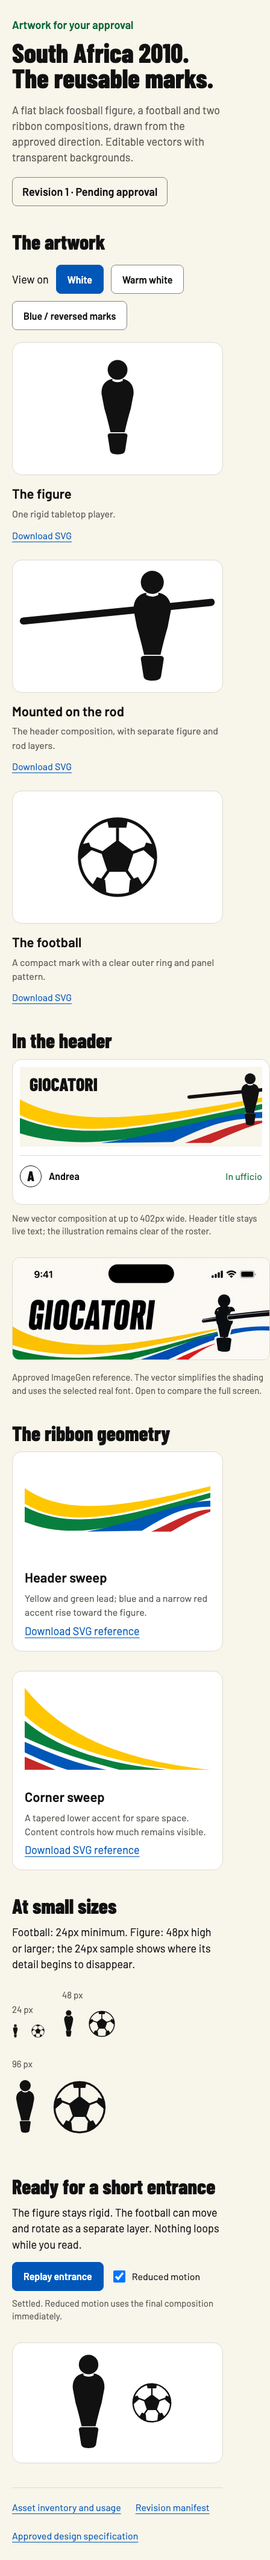
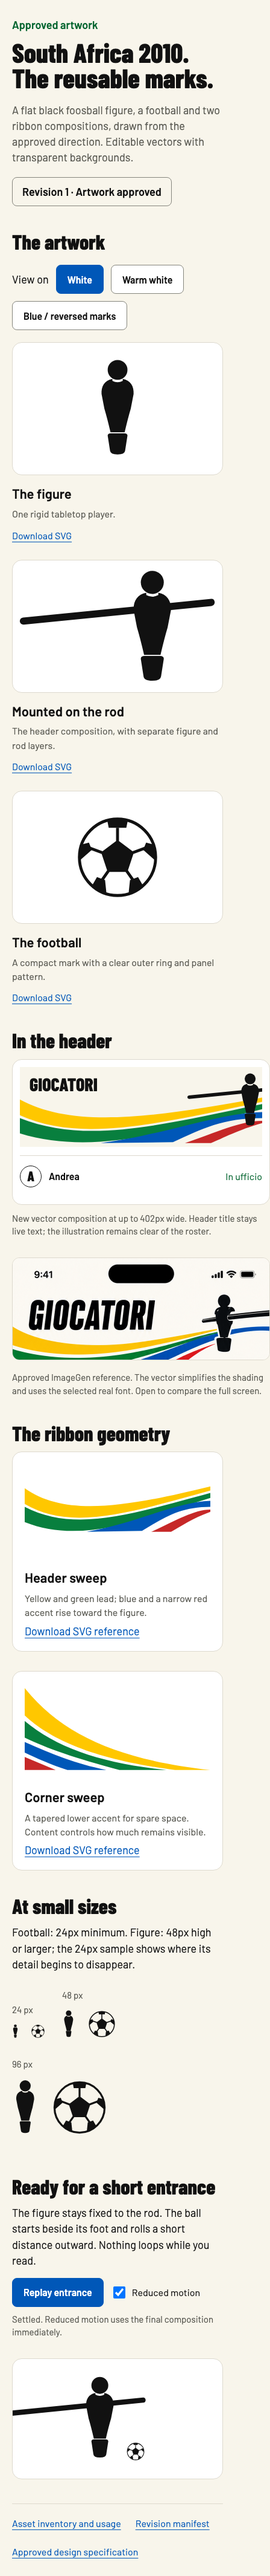
docs: record artwork approval and refine entrance preview

diff --git a/design/south-africa-2010/assets/r1/review.html b/design/south-africa-2010/assets/r1/review.html
@@ -1,9 +1,9 @@
 <!doctype html><html lang="en"><meta charset="utf-8"><meta name="viewport" content="width=device-width,initial-scale=1"><title>South Africa 2010 — asset review R1</title><style>
 @font-face{font-family:Barlow;src:url('../../../experiments/south-africa-2010/type/Barlow-Regular.ttf');font-weight:400}@font-face{font-family:Barlow;src:url('../../../experiments/south-africa-2010/type/Barlow-SemiBold.ttf');font-weight:600}@font-face{font-family:Display;src:url('../../../experiments/south-africa-2010/type/BarlowCondensed-ExtraBold.ttf');font-weight:800}
-*{box-sizing:border-box}body{margin:0;background:#f8f5eb;color:#111;font:18px/1.45 Barlow,sans-serif}main{max-width:1180px;margin:auto;padding:44px 32px 64px}h1,h2,h3,p{margin:0}h1{font:800 clamp(44px,6vw,74px)/.96 Display,sans-serif;max-width:800px}h2{font:800 34px/1.1 Display,sans-serif;margin-bottom:12px}h3{font-size:22px}p{max-width:700px}a{color:#0057b8;text-underline-offset:4px}a:focus-visible,button:focus-visible,input:focus-visible{outline:3px solid #0057b8;outline-offset:4px}.intro{display:flex;gap:30px;align-items:end;justify-content:space-between}.status{margin-bottom:12px;color:#066631;font-weight:600}.lead{margin-top:18px;max-width:700px;color:#5c5c55}.revision{white-space:nowrap;font-weight:600;border:1px solid #85857c;padding:10px 16px;border-radius:8px}section{margin-top:40px}.toolbar{display:flex;gap:12px;align-items:center;flex-wrap:wrap;margin:20px 0}button{min-height:48px;padding:10px 18px;border:1px solid #85857c;border-radius:8px;background:#fff;color:#111;font:600 16px Barlow;cursor:pointer}button[aria-pressed=true],button.primary{background:#0057b8;color:white;border-color:#0057b8}.marks{display:grid;grid-template-columns:1fr 1.35fr 1fr;gap:28px}.mark h3{margin-top:15px}.mark p{font-size:16px;color:#5c5c55;margin:5px 0 10px;min-height:47px}.mark a{font-size:16px}.art{height:230px;background:var(--stage,#fff);border:1px solid #ddd9ce;display:flex;align-items:center;justify-content:center;border-radius:16px}.art svg{height:172px;max-width:94%;width:auto}.art-rod svg{width:100%;height:auto}.art-ball svg{height:146px}.blue .art svg [fill="#111111"]{fill:#fff}.blue .art svg [stroke="#111111"]{stroke:#fff}.comparison{display:grid;grid-template-columns:1fr 1fr;gap:32px;align-items:start}.composition{border:1px solid #ddd9ce;border-radius:16px;background:#fff;padding:24px;overflow:hidden}.phone-header{position:relative;width:402px;max-width:100%;height:132px;overflow:hidden;background:#f8f5eb;margin:auto}.phone-header h3{position:absolute;left:16px;top:12px;font:800 32px/1.1 Display;z-index:2}.sweep{position:absolute;bottom:0;width:100%;height:86px}.sweep svg{width:100%;height:100%;preserve-aspect-ratio:none}.assembly{position:absolute;right:-15px;top:0;width:155px;height:108px}.assembly svg{width:100%;height:100%}.roster-cue{max-width:402px;margin:14px auto 0;padding:16px 0;border-top:1px solid #ddd9ce;display:flex;align-items:center;gap:12px;font-size:16px}.initial{width:36px;height:36px;border:1px solid #111;border-radius:50%;display:grid;place-items:center;font-family:Display;font-size:23px}.presence{margin-left:auto;color:#066631}.caption{font-size:15px;color:#5c5c55;margin-top:12px}.reference{width:100%;height:204px;object-fit:cover;object-position:top;border-radius:12px;border:1px solid #ddd9ce}.ribbons{display:grid;grid-template-columns:1.3fr 1fr;gap:32px}.ribbon-study{background:#fff;border:1px solid #ddd9ce;border-radius:16px;padding:20px}.ribbon-study svg{width:100%;height:150px}.ribbon-study h3{margin-top:16px}.ribbon-study p{font-size:16px;color:#5c5c55;margin:6px 0}.small-row{display:flex;align-items:end;gap:48px;flex-wrap:wrap;padding:24px 0}.size>span{font-size:15px;color:#5c5c55}.size>div{display:flex;gap:20px;margin-top:12px}.size svg{height:100%;width:auto}.motion{display:grid;grid-template-columns:1fr 1fr;gap:32px;align-items:center}.motion-stage{height:200px;background:#fff;border:1px solid #ddd9ce;border-radius:16px;display:flex;align-items:center;justify-content:center;gap:24px;overflow:hidden}.motion-stage .motion-ball{width:72px;height:72px}.motion-stage .motion-player{width:90px;height:170px}.motion-stage svg{width:100%;height:100%}.motion .controls{display:flex;gap:12px;align-items:center;flex-wrap:wrap;margin-top:16px}label{display:flex;align-items:center;gap:8px;font-size:16px;min-height:48px}input{width:20px;height:20px}footer{margin-top:40px;padding-top:20px;border-top:1px solid #ddd9ce;display:flex;gap:24px;flex-wrap:wrap;font-size:16px}.motion-note{font-size:15px;color:#5c5c55;margin-top:10px}
+*{box-sizing:border-box}body{margin:0;background:#f8f5eb;color:#111;font:18px/1.45 Barlow,sans-serif}main{max-width:1180px;margin:auto;padding:44px 32px 64px}h1,h2,h3,p{margin:0}h1{font:800 clamp(44px,6vw,74px)/.96 Display,sans-serif;max-width:800px}h2{font:800 34px/1.1 Display,sans-serif;margin-bottom:12px}h3{font-size:22px}p{max-width:700px}a{color:#0057b8;text-underline-offset:4px}a:focus-visible,button:focus-visible,input:focus-visible{outline:3px solid #0057b8;outline-offset:4px}.intro{display:flex;gap:30px;align-items:end;justify-content:space-between}.status{margin-bottom:12px;color:#066631;font-weight:600}.lead{margin-top:18px;max-width:700px;color:#5c5c55}.revision{white-space:nowrap;font-weight:600;border:1px solid #85857c;padding:10px 16px;border-radius:8px}section{margin-top:40px}.toolbar{display:flex;gap:12px;align-items:center;flex-wrap:wrap;margin:20px 0}button{min-height:48px;padding:10px 18px;border:1px solid #85857c;border-radius:8px;background:#fff;color:#111;font:600 16px Barlow;cursor:pointer}button[aria-pressed=true],button.primary{background:#0057b8;color:white;border-color:#0057b8}.marks{display:grid;grid-template-columns:1fr 1.35fr 1fr;gap:28px}.mark h3{margin-top:15px}.mark p{font-size:16px;color:#5c5c55;margin:5px 0 10px;min-height:47px}.mark a{font-size:16px}.art{height:230px;background:var(--stage,#fff);border:1px solid #ddd9ce;display:flex;align-items:center;justify-content:center;border-radius:16px}.art svg{height:172px;max-width:94%;width:auto}.art-rod svg{width:100%;height:auto}.art-ball svg{height:146px}.blue .art svg [fill="#111111"]{fill:#fff}.blue .art svg [stroke="#111111"]{stroke:#fff}.comparison{display:grid;grid-template-columns:1fr 1fr;gap:32px;align-items:start}.composition{border:1px solid #ddd9ce;border-radius:16px;background:#fff;padding:24px;overflow:hidden}.phone-header{position:relative;width:402px;max-width:100%;height:132px;overflow:hidden;background:#f8f5eb;margin:auto}.phone-header h3{position:absolute;left:16px;top:12px;font:800 32px/1.1 Display;z-index:2}.sweep{position:absolute;bottom:0;width:100%;height:86px}.sweep svg{width:100%;height:100%;}.assembly{position:absolute;right:-15px;top:0;width:155px;height:108px}.assembly svg{width:100%;height:100%}.roster-cue{max-width:402px;margin:14px auto 0;padding:16px 0;border-top:1px solid #ddd9ce;display:flex;align-items:center;gap:12px;font-size:16px}.initial{width:36px;height:36px;border:1px solid #111;border-radius:50%;display:grid;place-items:center;font-family:Display;font-size:23px}.presence{margin-left:auto;color:#066631}.caption{font-size:15px;color:#5c5c55;margin-top:12px}.reference{width:100%;height:204px;object-fit:cover;object-position:top;border-radius:12px;border:1px solid #ddd9ce}.ribbons{display:grid;grid-template-columns:1.3fr 1fr;gap:32px}.ribbon-study{background:#fff;border:1px solid #ddd9ce;border-radius:16px;padding:20px}.ribbon-study svg{width:100%;height:150px}.ribbon-study h3{margin-top:16px}.ribbon-study p{font-size:16px;color:#5c5c55;margin:6px 0}.small-row{display:flex;align-items:end;gap:48px;flex-wrap:wrap;padding:24px 0}.size>span{font-size:15px;color:#5c5c55}.size>div{display:flex;gap:20px;margin-top:12px}.size svg{height:100%;width:auto}.motion{display:grid;grid-template-columns:1fr 1fr;gap:32px;align-items:center}.motion-stage{height:200px;background:#fff;border:1px solid #ddd9ce;border-radius:16px;display:flex;align-items:center;justify-content:center;gap:24px;overflow:hidden}.motion-scene{position:relative;width:240px;height:180px;flex:none}.motion-stage .motion-ball{position:absolute;left:134px;top:128px;width:32px;height:32px}.motion-stage .motion-player{position:absolute;left:-72px;top:8px;width:240px;height:160px}.motion-stage svg{width:100%;height:100%}.motion .controls{display:flex;gap:12px;align-items:center;flex-wrap:wrap;margin-top:16px}label{display:flex;align-items:center;gap:8px;font-size:16px;min-height:48px}input{width:20px;height:20px}footer{margin-top:40px;padding-top:20px;border-top:1px solid #ddd9ce;display:flex;gap:24px;flex-wrap:wrap;font-size:16px}.motion-note{font-size:15px;color:#5c5c55;margin-top:10px}
 @media(max-width:720px){main{padding:28px 20px}.intro{display:block}.revision{display:inline-block;margin-top:20px}.marks,.comparison,.ribbons,.motion{grid-template-columns:1fr}.art{height:220px}.mark p{min-height:0}.composition{padding:12px}.reference{height:170px}.small-row{gap:28px}.phone-header h3{font-size:30px}.assembly{right:-30px}.motion-stage{order:2}}
 @media(prefers-reduced-motion:reduce){*{scroll-behavior:auto!important}}
-</style><main><div class="intro"><div><p class="status">Artwork for your approval</p><h1>South Africa 2010.<br>The reusable marks.</h1><p class="lead">A flat black foosball figure, a football and two ribbon compositions, drawn from the approved direction. Editable vectors with transparent backgrounds.</p></div><p class="revision">Revision 1 · Pending approval</p></div>
+</style><main><div class="intro"><div><p class="status">Approved artwork</p><h1>South Africa 2010.<br>The reusable marks.</h1><p class="lead">A flat black foosball figure, a football and two ribbon compositions, drawn from the approved direction. Editable vectors with transparent backgrounds.</p></div><p class="revision">Revision 1 · Artwork approved</p></div>
 <section aria-labelledby="marks-title"><h2 id="marks-title">The artwork</h2><div class="toolbar" aria-label="Artwork background"><span>View on</span><button data-bg="white" aria-pressed="true">White</button><button data-bg="ivory" aria-pressed="false">Warm white</button><button data-bg="blue" aria-pressed="false">Blue / reversed marks</button></div><div class="marks"><article class="mark"><div class="art art-figure"><svg xmlns="http://www.w3.org/2000/svg" viewBox="0 0 100 220">
 <title>Reusable rigid figure</title>
 <g id="preview-1-figure" fill="#111111">
@@ -111,13 +111,14 @@
 </g>
 </svg>
 </div></div></div></section>
-<section class="motion"><div><h2>Ready for a short entrance</h2><p>The figure stays rigid. The football can move and rotate as a separate layer. Nothing loops while you read.</p><div class="controls"><button class="primary" id="replay">Replay entrance</button><label><input type="checkbox" id="reduced">Reduced motion</label></div><p class="motion-note" id="motion-status" role="status">Idle. Browser movement study; Flutter motion validation is still pending.</p></div><div class="motion-stage"><div class="motion-player"><svg xmlns="http://www.w3.org/2000/svg" viewBox="0 0 100 220">
-<title>Reusable rigid figure</title>
-<g id="preview-14-figure" fill="#111111">
+<section class="motion"><div><h2>Ready for a short entrance</h2><p>The figure stays fixed to the rod. The ball starts beside its foot and rolls a short distance outward. Nothing loops while you read.</p><div class="controls"><button class="primary" id="replay">Replay entrance</button><label><input type="checkbox" id="reduced">Reduced motion</label></div><p class="motion-note" id="motion-status" role="status">Idle. Browser movement study; Flutter motion validation is still pending.</p></div><div class="motion-stage"><div class="motion-scene"><div class="motion-player"><svg xmlns="http://www.w3.org/2000/svg" viewBox="0 0 360 240">
+<title>Foosball figure and rod</title>
+<g id="preview-14-rod" fill="#111111"><path d="M8 104 L352 70 Q357 70 358 76 Q358 82 352 83 L9 117 Q3 117 2 111 Q2 105 8 104 Z"/></g>
+<g id="preview-14-player" transform="translate(194 12)"><g id="preview-14-figure" fill="#111111">
   <circle id="preview-14-head" cx="50" cy="28" r="21"/>
   <path id="preview-14-body" d="M39 47 C22 50 15 63 16 79 L22 110 Q28 130 35 160 L65 160 Q72 130 78 110 L84 79 C85 63 78 50 61 47 L61 51 Q50 57 39 51 Z"/>
   <path id="preview-14-foot" d="M29 167 Q29 162 36 162 H64 Q71 162 71 167 L66 199 Q65 207 50 207 Q35 207 34 199 Z"/>
-</g>
+</g></g>
 </svg>
 </div><div class="motion-ball"><svg xmlns="http://www.w3.org/2000/svg" viewBox="0 0 120 120">
 <title>Football mark</title>
@@ -127,11 +128,11 @@
   <g id="preview-15-panels" fill="#111111" stroke="none"><path d="M60 39 L80 54 L72 78 H48 L40 54 Z M46 10 Q60 6 74 10 L72 20 H48 Z M10 43 L21 40 L25 50 L9 64 Z M110 43 L99 40 L95 50 L111 64 Z M25 99 L32 87 L43 91 L45 110 Z M95 99 L88 87 L77 91 L75 110 Z"/></g>
 </g>
 </svg>
-</div></div></section>
+</div></div></div></section>
 <footer><a href="../README.md">Asset inventory and usage</a><a href="manifest.json">Revision manifest</a><a href="../../../../DESIGN.md">Approved design specification</a></footer></main>
 <script>
 const root=document.documentElement;document.querySelectorAll('[data-bg]').forEach(b=>b.addEventListener('click',()=>{document.querySelectorAll('[data-bg]').forEach(x=>x.setAttribute('aria-pressed',String(x===b)));root.style.setProperty('--stage',{white:'#fff',ivory:'#f8f5eb',blue:'#0057b8'}[b.dataset.bg]);document.body.classList.toggle('blue',b.dataset.bg==='blue');}));
 const media=matchMedia('(prefers-reduced-motion: reduce)'),reduced=document.querySelector('#reduced'),status=document.querySelector('#motion-status');let running=[];reduced.checked=media.matches;
 const settle=()=>{running.forEach(a=>a.cancel());running=[];status.textContent='Settled. Reduced motion uses the final composition immediately.';};reduced.addEventListener('change',()=>{if(reduced.checked)settle()});media.addEventListener('change',e=>{reduced.checked=e.matches;if(e.matches)settle()});
-document.querySelector('#replay').addEventListener('click',()=>{running.forEach(a=>a.cancel());running=[];if(reduced.checked||media.matches){settle();return}status.textContent='Playing a 1-second entrance study.';running=[document.querySelector('.motion-ball').animate([{transform:'translateX(-24px) rotate(-20deg)',opacity:0},{transform:'translateX(0) rotate(0)',opacity:1}],{duration:1000,easing:'cubic-bezier(.22,1,.36,1)'}),document.querySelector('.motion-player').animate([{opacity:0},{opacity:1}],{duration:500,easing:'ease-out'})];Promise.all(running.map(a=>a.finished)).then(()=>{status.textContent='Entrance complete. No idle loop.'}).catch(()=>{});});
+document.querySelector('#replay').addEventListener('click',()=>{running.forEach(a=>a.cancel());running=[];if(reduced.checked||media.matches){settle();return}status.textContent='Playing a 1-second entrance study.';running=[document.querySelector('.motion-ball').animate([{transform:'translateX(-24px) rotate(-90deg)',offset:0},{transform:'translateX(-24px) rotate(-90deg)',offset:.15},{transform:'translateX(0) rotate(0)',offset:1}],{duration:1000,easing:'cubic-bezier(.22,1,.36,1)'})];Promise.all(running.map(a=>a.finished)).then(()=>{status.textContent='Entrance complete. No idle loop.'}).catch(()=>{});});
 </script></html>

diff --git a/design/south-africa-2010/assets/tools/build_review.py b/design/south-africa-2010/assets/tools/build_review.py
@@ -8,7 +8,7 @@ cards=''.join(f'<article class="mark"><div class="art art-{cl}">{svg(stem)}</div
 sizes=''.join('<div class="size"><span>'+str(size)+' px</span><div style="height:'+str(size)+'px">'+svg('foosball-figure')+svg('football')+'</div></div>' for size in [24,48,96])
 page='''<!doctype html><html lang="en"><meta charset="utf-8"><meta name="viewport" content="width=device-width,initial-scale=1"><title>South Africa 2010 — asset review R1</title><style>
 @font-face{font-family:Barlow;src:url('../../../experiments/south-africa-2010/type/Barlow-Regular.ttf');font-weight:400}@font-face{font-family:Barlow;src:url('../../../experiments/south-africa-2010/type/Barlow-SemiBold.ttf');font-weight:600}@font-face{font-family:Display;src:url('../../../experiments/south-africa-2010/type/BarlowCondensed-ExtraBold.ttf');font-weight:800}
-*{box-sizing:border-box}body{margin:0;background:#f8f5eb;color:#111;font:18px/1.45 Barlow,sans-serif}main{max-width:1180px;margin:auto;padding:44px 32px 64px}h1,h2,h3,p{margin:0}h1{font:800 clamp(44px,6vw,74px)/.96 Display,sans-serif;max-width:800px}h2{font:800 34px/1.1 Display,sans-serif;margin-bottom:12px}h3{font-size:22px}p{max-width:700px}a{color:#0057b8;text-underline-offset:4px}a:focus-visible,button:focus-visible,input:focus-visible{outline:3px solid #0057b8;outline-offset:4px}.intro{display:flex;gap:30px;align-items:end;justify-content:space-between}.status{margin-bottom:12px;color:#066631;font-weight:600}.lead{margin-top:18px;max-width:700px;color:#5c5c55}.revision{white-space:nowrap;font-weight:600;border:1px solid #85857c;padding:10px 16px;border-radius:8px}section{margin-top:40px}.toolbar{display:flex;gap:12px;align-items:center;flex-wrap:wrap;margin:20px 0}button{min-height:48px;padding:10px 18px;border:1px solid #85857c;border-radius:8px;background:#fff;color:#111;font:600 16px Barlow;cursor:pointer}button[aria-pressed=true],button.primary{background:#0057b8;color:white;border-color:#0057b8}.marks{display:grid;grid-template-columns:1fr 1.35fr 1fr;gap:28px}.mark h3{margin-top:15px}.mark p{font-size:16px;color:#5c5c55;margin:5px 0 10px;min-height:47px}.mark a{font-size:16px}.art{height:230px;background:var(--stage,#fff);border:1px solid #ddd9ce;display:flex;align-items:center;justify-content:center;border-radius:16px}.art svg{height:172px;max-width:94%;width:auto}.art-rod svg{width:100%;height:auto}.art-ball svg{height:146px}.blue .art svg [fill="#111111"]{fill:#fff}.blue .art svg [stroke="#111111"]{stroke:#fff}.comparison{display:grid;grid-template-columns:1fr 1fr;gap:32px;align-items:start}.composition{border:1px solid #ddd9ce;border-radius:16px;background:#fff;padding:24px;overflow:hidden}.phone-header{position:relative;width:402px;max-width:100%;height:132px;overflow:hidden;background:#f8f5eb;margin:auto}.phone-header h3{position:absolute;left:16px;top:12px;font:800 32px/1.1 Display;z-index:2}.sweep{position:absolute;bottom:0;width:100%;height:86px}.sweep svg{width:100%;height:100%;preserve-aspect-ratio:none}.assembly{position:absolute;right:-15px;top:0;width:155px;height:108px}.assembly svg{width:100%;height:100%}.roster-cue{max-width:402px;margin:14px auto 0;padding:16px 0;border-top:1px solid #ddd9ce;display:flex;align-items:center;gap:12px;font-size:16px}.initial{width:36px;height:36px;border:1px solid #111;border-radius:50%;display:grid;place-items:center;font-family:Display;font-size:23px}.presence{margin-left:auto;color:#066631}.caption{font-size:15px;color:#5c5c55;margin-top:12px}.reference{width:100%;height:204px;object-fit:cover;object-position:top;border-radius:12px;border:1px solid #ddd9ce}.ribbons{display:grid;grid-template-columns:1.3fr 1fr;gap:32px}.ribbon-study{background:#fff;border:1px solid #ddd9ce;border-radius:16px;padding:20px}.ribbon-study svg{width:100%;height:150px}.ribbon-study h3{margin-top:16px}.ribbon-study p{font-size:16px;color:#5c5c55;margin:6px 0}.small-row{display:flex;align-items:end;gap:48px;flex-wrap:wrap;padding:24px 0}.size>span{font-size:15px;color:#5c5c55}.size>div{display:flex;gap:20px;margin-top:12px}.size svg{height:100%;width:auto}.motion{display:grid;grid-template-columns:1fr 1fr;gap:32px;align-items:center}.motion-stage{height:200px;background:#fff;border:1px solid #ddd9ce;border-radius:16px;display:flex;align-items:center;justify-content:center;gap:24px;overflow:hidden}.motion-stage .motion-ball{width:72px;height:72px}.motion-stage .motion-player{width:90px;height:170px}.motion-stage svg{width:100%;height:100%}.motion .controls{display:flex;gap:12px;align-items:center;flex-wrap:wrap;margin-top:16px}label{display:flex;align-items:center;gap:8px;font-size:16px;min-height:48px}input{width:20px;height:20px}footer{margin-top:40px;padding-top:20px;border-top:1px solid #ddd9ce;display:flex;gap:24px;flex-wrap:wrap;font-size:16px}.motion-note{font-size:15px;color:#5c5c55;margin-top:10px}
+*{box-sizing:border-box}body{margin:0;background:#f8f5eb;color:#111;font:18px/1.45 Barlow,sans-serif}main{max-width:1180px;margin:auto;padding:44px 32px 64px}h1,h2,h3,p{margin:0}h1{font:800 clamp(44px,6vw,74px)/.96 Display,sans-serif;max-width:800px}h2{font:800 34px/1.1 Display,sans-serif;margin-bottom:12px}h3{font-size:22px}p{max-width:700px}a{color:#0057b8;text-underline-offset:4px}a:focus-visible,button:focus-visible,input:focus-visible{outline:3px solid #0057b8;outline-offset:4px}.intro{display:flex;gap:30px;align-items:end;justify-content:space-between}.status{margin-bottom:12px;color:#066631;font-weight:600}.lead{margin-top:18px;max-width:700px;color:#5c5c55}.revision{white-space:nowrap;font-weight:600;border:1px solid #85857c;padding:10px 16px;border-radius:8px}section{margin-top:40px}.toolbar{display:flex;gap:12px;align-items:center;flex-wrap:wrap;margin:20px 0}button{min-height:48px;padding:10px 18px;border:1px solid #85857c;border-radius:8px;background:#fff;color:#111;font:600 16px Barlow;cursor:pointer}button[aria-pressed=true],button.primary{background:#0057b8;color:white;border-color:#0057b8}.marks{display:grid;grid-template-columns:1fr 1.35fr 1fr;gap:28px}.mark h3{margin-top:15px}.mark p{font-size:16px;color:#5c5c55;margin:5px 0 10px;min-height:47px}.mark a{font-size:16px}.art{height:230px;background:var(--stage,#fff);border:1px solid #ddd9ce;display:flex;align-items:center;justify-content:center;border-radius:16px}.art svg{height:172px;max-width:94%;width:auto}.art-rod svg{width:100%;height:auto}.art-ball svg{height:146px}.blue .art svg [fill="#111111"]{fill:#fff}.blue .art svg [stroke="#111111"]{stroke:#fff}.comparison{display:grid;grid-template-columns:1fr 1fr;gap:32px;align-items:start}.composition{border:1px solid #ddd9ce;border-radius:16px;background:#fff;padding:24px;overflow:hidden}.phone-header{position:relative;width:402px;max-width:100%;height:132px;overflow:hidden;background:#f8f5eb;margin:auto}.phone-header h3{position:absolute;left:16px;top:12px;font:800 32px/1.1 Display;z-index:2}.sweep{position:absolute;bottom:0;width:100%;height:86px}.sweep svg{width:100%;height:100%;}.assembly{position:absolute;right:-15px;top:0;width:155px;height:108px}.assembly svg{width:100%;height:100%}.roster-cue{max-width:402px;margin:14px auto 0;padding:16px 0;border-top:1px solid #ddd9ce;display:flex;align-items:center;gap:12px;font-size:16px}.initial{width:36px;height:36px;border:1px solid #111;border-radius:50%;display:grid;place-items:center;font-family:Display;font-size:23px}.presence{margin-left:auto;color:#066631}.caption{font-size:15px;color:#5c5c55;margin-top:12px}.reference{width:100%;height:204px;object-fit:cover;object-position:top;border-radius:12px;border:1px solid #ddd9ce}.ribbons{display:grid;grid-template-columns:1.3fr 1fr;gap:32px}.ribbon-study{background:#fff;border:1px solid #ddd9ce;border-radius:16px;padding:20px}.ribbon-study svg{width:100%;height:150px}.ribbon-study h3{margin-top:16px}.ribbon-study p{font-size:16px;color:#5c5c55;margin:6px 0}.small-row{display:flex;align-items:end;gap:48px;flex-wrap:wrap;padding:24px 0}.size>span{font-size:15px;color:#5c5c55}.size>div{display:flex;gap:20px;margin-top:12px}.size svg{height:100%;width:auto}.motion{display:grid;grid-template-columns:1fr 1fr;gap:32px;align-items:center}.motion-stage{height:200px;background:#fff;border:1px solid #ddd9ce;border-radius:16px;display:flex;align-items:center;justify-content:center;gap:24px;overflow:hidden}.motion-scene{position:relative;width:240px;height:180px;flex:none}.motion-stage .motion-ball{position:absolute;left:134px;top:128px;width:32px;height:32px}.motion-stage .motion-player{position:absolute;left:-72px;top:8px;width:240px;height:160px}.motion-stage svg{width:100%;height:100%}.motion .controls{display:flex;gap:12px;align-items:center;flex-wrap:wrap;margin-top:16px}label{display:flex;align-items:center;gap:8px;font-size:16px;min-height:48px}input{width:20px;height:20px}footer{margin-top:40px;padding-top:20px;border-top:1px solid #ddd9ce;display:flex;gap:24px;flex-wrap:wrap;font-size:16px}.motion-note{font-size:15px;color:#5c5c55;margin-top:10px}
 @media(max-width:720px){main{padding:28px 20px}.intro{display:block}.revision{display:inline-block;margin-top:20px}.marks,.comparison,.ribbons,.motion{grid-template-columns:1fr}.art{height:220px}.mark p{min-height:0}.composition{padding:12px}.reference{height:170px}.small-row{gap:28px}.phone-header h3{font-size:30px}.assembly{right:-30px}.motion-stage{order:2}}
 @media(prefers-reduced-motion:reduce){*{scroll-behavior:auto!important}}
 </style><main><div class="intro"><div><p class="status">Artwork for your approval</p><h1>South Africa 2010.<br>The reusable marks.</h1><p class="lead">A flat black foosball figure, a football and two ribbon compositions, drawn from the approved direction. Editable vectors with transparent backgrounds.</p></div><p class="revision">Revision 1 · Pending approval</p></div>
@@ -16,15 +16,15 @@ page='''<!doctype html><html lang="en"><meta charset="utf-8"><meta name="viewpor
 <section><h2>In the header</h2><div class="comparison"><div><div class="composition">HEADER<div class="roster-cue"><span class="initial">A</span><strong>Andrea</strong><span class="presence">In ufficio</span></div></div><p class="caption">New vector composition at up to 402px wide. Header title stays live text; the illustration remains clear of the roster.</p></div><div><a href="../../../experiments/south-africa-2010/mockups/01-players.png"><img class="reference" src="../../../experiments/south-africa-2010/mockups/01-players.png" alt="Approved players mockup, cropped to its illustrated header"></a><p class="caption">Approved ImageGen reference. The vector simplifies the shading and uses the selected real font. Open to compare the full screen.</p></div></div></section>
 <section><h2>The ribbon geometry</h2><div class="ribbons"><article class="ribbon-study">HEADER_RIBBON<h3>Header sweep</h3><p>Yellow and green lead; blue and a narrow red accent rise toward the figure.</p><a href="svg/ribbon-header.svg" download>Download SVG reference</a></article><article class="ribbon-study">CORNER_RIBBON<h3>Corner sweep</h3><p>A tapered lower accent for spare space. Content controls how much remains visible.</p><a href="svg/ribbon-corner.svg" download>Download SVG reference</a></article></div></section>
 <section><h2>At small sizes</h2><p>Football: 24px minimum. Figure: 48px high or larger; the 24px sample shows where its detail begins to disappear.</p><div class="small-row">SIZES</div></section>
-<section class="motion"><div><h2>Ready for a short entrance</h2><p>The figure stays rigid. The football can move and rotate as a separate layer. Nothing loops while you read.</p><div class="controls"><button class="primary" id="replay">Replay entrance</button><label><input type="checkbox" id="reduced">Reduced motion</label></div><p class="motion-note" id="motion-status" role="status">Idle. Browser movement study; Flutter motion validation is still pending.</p></div><div class="motion-stage"><div class="motion-player">FIGURE</div><div class="motion-ball">BALL</div></div></section>
+<section class="motion"><div><h2>Ready for a short entrance</h2><p>The figure stays fixed to the rod. The ball starts beside its foot and rolls a short distance outward. Nothing loops while you read.</p><div class="controls"><button class="primary" id="replay">Replay entrance</button><label><input type="checkbox" id="reduced">Reduced motion</label></div><p class="motion-note" id="motion-status" role="status">Idle. Browser movement study; Flutter motion validation is still pending.</p></div><div class="motion-stage"><div class="motion-scene"><div class="motion-player">MOUNTED</div><div class="motion-ball">BALL</div></div></div></section>
 <footer><a href="../README.md">Asset inventory and usage</a><a href="manifest.json">Revision manifest</a><a href="../../../../DESIGN.md">Approved design specification</a></footer></main>
 <script>
 const root=document.documentElement;document.querySelectorAll('[data-bg]').forEach(b=>b.addEventListener('click',()=>{document.querySelectorAll('[data-bg]').forEach(x=>x.setAttribute('aria-pressed',String(x===b)));root.style.setProperty('--stage',{white:'#fff',ivory:'#f8f5eb',blue:'#0057b8'}[b.dataset.bg]);document.body.classList.toggle('blue',b.dataset.bg==='blue');}));
 const media=matchMedia('(prefers-reduced-motion: reduce)'),reduced=document.querySelector('#reduced'),status=document.querySelector('#motion-status');let running=[];reduced.checked=media.matches;
 const settle=()=>{running.forEach(a=>a.cancel());running=[];status.textContent='Settled. Reduced motion uses the final composition immediately.';};reduced.addEventListener('change',()=>{if(reduced.checked)settle()});media.addEventListener('change',e=>{reduced.checked=e.matches;if(e.matches)settle()});
-document.querySelector('#replay').addEventListener('click',()=>{running.forEach(a=>a.cancel());running=[];if(reduced.checked||media.matches){settle();return}status.textContent='Playing a 1-second entrance study.';running=[document.querySelector('.motion-ball').animate([{transform:'translateX(-24px) rotate(-20deg)',opacity:0},{transform:'translateX(0) rotate(0)',opacity:1}],{duration:1000,easing:'cubic-bezier(.22,1,.36,1)'}),document.querySelector('.motion-player').animate([{opacity:0},{opacity:1}],{duration:500,easing:'ease-out'})];Promise.all(running.map(a=>a.finished)).then(()=>{status.textContent='Entrance complete. No idle loop.'}).catch(()=>{});});
+document.querySelector('#replay').addEventListener('click',()=>{running.forEach(a=>a.cancel());running=[];if(reduced.checked||media.matches){settle();return}status.textContent='Playing a 1-second entrance study.';running=[document.querySelector('.motion-ball').animate([{transform:'translateX(-24px) rotate(-90deg)',offset:0},{transform:'translateX(-24px) rotate(-90deg)',offset:.15},{transform:'translateX(0) rotate(0)',offset:1}],{duration:1000,easing:'cubic-bezier(.22,1,.36,1)'})];Promise.all(running.map(a=>a.finished)).then(()=>{status.textContent='Entrance complete. No idle loop.'}).catch(()=>{});});
 </script></html>'''
-for key,val in [('CARDS',cards),('HEADER_RIBBON',svg('ribbon-header')),('CORNER_RIBBON',svg('ribbon-corner')),('HEADER',header),('SIZES',sizes),('FIGURE',svg('foosball-figure')),('BALL',svg('football'))]:page=page.replace(key,val)
+for key,val in [('CARDS',cards),('HEADER_RIBBON',svg('ribbon-header')),('CORNER_RIBBON',svg('ribbon-corner')),('HEADER',header),('SIZES',sizes),('MOUNTED',svg('foosball-rod')),('BALL',svg('football'))]:page=page.replace(key,val)
 # Repeated inline art receives unique IDs in the gallery; the downloaded masters retain stable layer names.
 import re
 count=0
@@ -33,4 +33,7 @@ def prefix(m):
  count+=1
  return re.sub(r'id="([^"]+)"',lambda x:f'id="preview-{count}-{x.group(1)}"',m.group())
 page=re.sub(r'<svg\b[\s\S]*?</svg>',prefix,page)
+import json
+if json.loads((out/'manifest.json').read_text()).get('approval') == 'approved':
+ page=page.replace('Artwork for your approval','Approved artwork').replace('Revision 1 · Pending approval','Revision 1 · Artwork approved')
 (out/'review.html').write_text(page)

diff --git a/design/south-africa-2010/assets/tools/build_assets.py b/design/south-africa-2010/assets/tools/build_assets.py
@@ -2,6 +2,8 @@ from pathlib import Path
 import json, hashlib
 root=Path(__file__).resolve().parents[4]
 out=root/'design/south-africa-2010/assets/r1'
+if (out/'manifest.json').exists() and json.loads((out/'manifest.json').read_text()).get('approval') == 'approved':
+ raise SystemExit('R1 is approved and frozen. Create a new revision for changed artwork; do not overwrite its approval record.')
 ink='#111111'
 figure='''<g id="figure" fill="#111111">
   <circle id="head" cx="50" cy="28" r="21"/>

diff --git a/DESIGN.md b/DESIGN.md
@@ -371,7 +371,7 @@ Score data updates immediately, independent of artwork. Rapid goals must not cre
 
 SVG rendering may require a Flutter dependency; make that decision after the asset set is approved. There is no need to add an SVG renderer if the final marks remain simple programmatic paths. No runtime reference may point to the issue upload or a generated-image cache path.
 
-The first vector candidates are available in the [R1 asset review](design/south-africa-2010/assets/r1/review.html), with an [inventory and usage guide](design/south-africa-2010/assets/README.md) and [hashed manifest](design/south-africa-2010/assets/r1/manifest.json). These include a rigid foosball figure, its rod assembly, a football and two ribbon geometry references. **Asset approval is pending.** The user explicitly requires review of newly created artwork before integration. Ribbon SVGs are reference geometry for a shared painter; the review PNG is not a runtime asset. A shaded PNG or stadium silhouette is conditional on a concrete composition need and would require its own review.
+The approved vector masters are available in the [R1 asset review](design/south-africa-2010/assets/r1/review.html), with an [inventory and usage guide](design/south-africa-2010/assets/README.md) and [hashed manifest](design/south-africa-2010/assets/r1/manifest.json). These include a rigid foosball figure, its rod assembly, a football and two ribbon geometry references. **All five R1 SVG assets were explicitly approved by the user on 2026-09-07 at the manifest hashes.** The user still requires review of newly created or materially revised artwork before integration. Ribbon SVGs are reference geometry for a shared painter; the review PNG is not a runtime asset. A shaded PNG or stadium silhouette is conditional on a concrete composition need and would require its own review.
 
 ## Review coverage and implementation sequence
 

diff --git a/design/south-africa-2010/assets/README.md b/design/south-africa-2010/assets/README.md
@@ -1,6 +1,6 @@
 # South Africa 2010 artwork
 
-R1 is **pending user approval**. Open [the review](r1/review.html) or inspect [the manifest](r1/manifest.json). The root DESIGN.md remains the design authority. This folder contains editable SVG candidates and review geometry, not a new approved visual direction.
+R1 artwork was **approved by the user on 2026-09-07** at the five SVG hashes recorded in the manifest. Open [the review](r1/review.html) or inspect [the manifest](r1/manifest.json). The root DESIGN.md remains the design authority. This folder contains approved editable SVG masters and review geometry, not a new approved visual direction.
 
 ## Inventory
 
@@ -25,3 +25,5 @@ These are original vector shapes authored for this repository, informed by the a
 Every new or materially revised illustration must be presented to the user before integration. Record explicit approval against the exact revision and hashes; do not infer approval from passing structural QA. If changes are requested, keep R1 as the reviewed reference and produce R2; update the manifest and design references accordingly. The PNG contact sheet is a review export, not a runtime asset requiring a raster pipeline.
 
 No shaded hero PNG or stadium master is required by the approved four layouts. Add one only for a concrete layout need and present it for approval. Functional icons, avatars, scores, badges, buttons and confetti remain widgets/painter geometry.
+
+The approved SVG geometry is frozen. The entrance study was adjusted after review to place the smaller football at the mounted figure’s foot before its short outward roll; this changes only browser composition/timing, not the approved assets. Final Flutter motion remains subject to runtime validation. The authoring script refuses to overwrite approved R1 masters; future changes need a new revision.

diff --git a/AGENTS.md b/AGENTS.md
@@ -4,7 +4,7 @@ Read the root `DESIGN.md` before changing UI, themes, assets or motion. It is th
 
 The review packet is in `design/experiments/south-africa-2010/`. Read its `MOCKUP_BRIEF.md` for example states and `README.md` for provenance, validation and known raster limitations. The packet's nested `DESIGN.md` is only a pointer to the canonical root file.
 
-The active local execution packet is `.agent-work/feature-plans/south-africa-2010/` (ignored, never commit). Read its plan, progress/resume state and active runbook before continuing the refactor. New artwork is in `design/south-africa-2010/assets/`; the user requires explicit approval of newly created assets before integration. The R1 manifest records pending approval and exact file hashes; the earlier mockup approval does not approve these assets. Keep asset approval status current when the user reviews them.
+The active local execution packet is `.agent-work/feature-plans/south-africa-2010/` (ignored, never commit). Read its plan, progress/resume state and active runbook before continuing the refactor. New artwork is in `design/south-africa-2010/assets/`; the user requires explicit approval of newly created assets before integration. The user explicitly approved all five R1 SVG assets on 2026-09-07; the manifest records their exact hashes. New or materially revised assets still require approval. Keep asset approval status current when the user reviews them.
 
 Keep visual decisions in the root specification and map its tokens into reusable Flutter components. Preserve the existing navigation, labels, match rules, data model and behavior. Follow the South Africa 2010 direction only; the separate Italia '90 experiment is outside this branch's scope. Generated sample content is not a feature specification.
 
